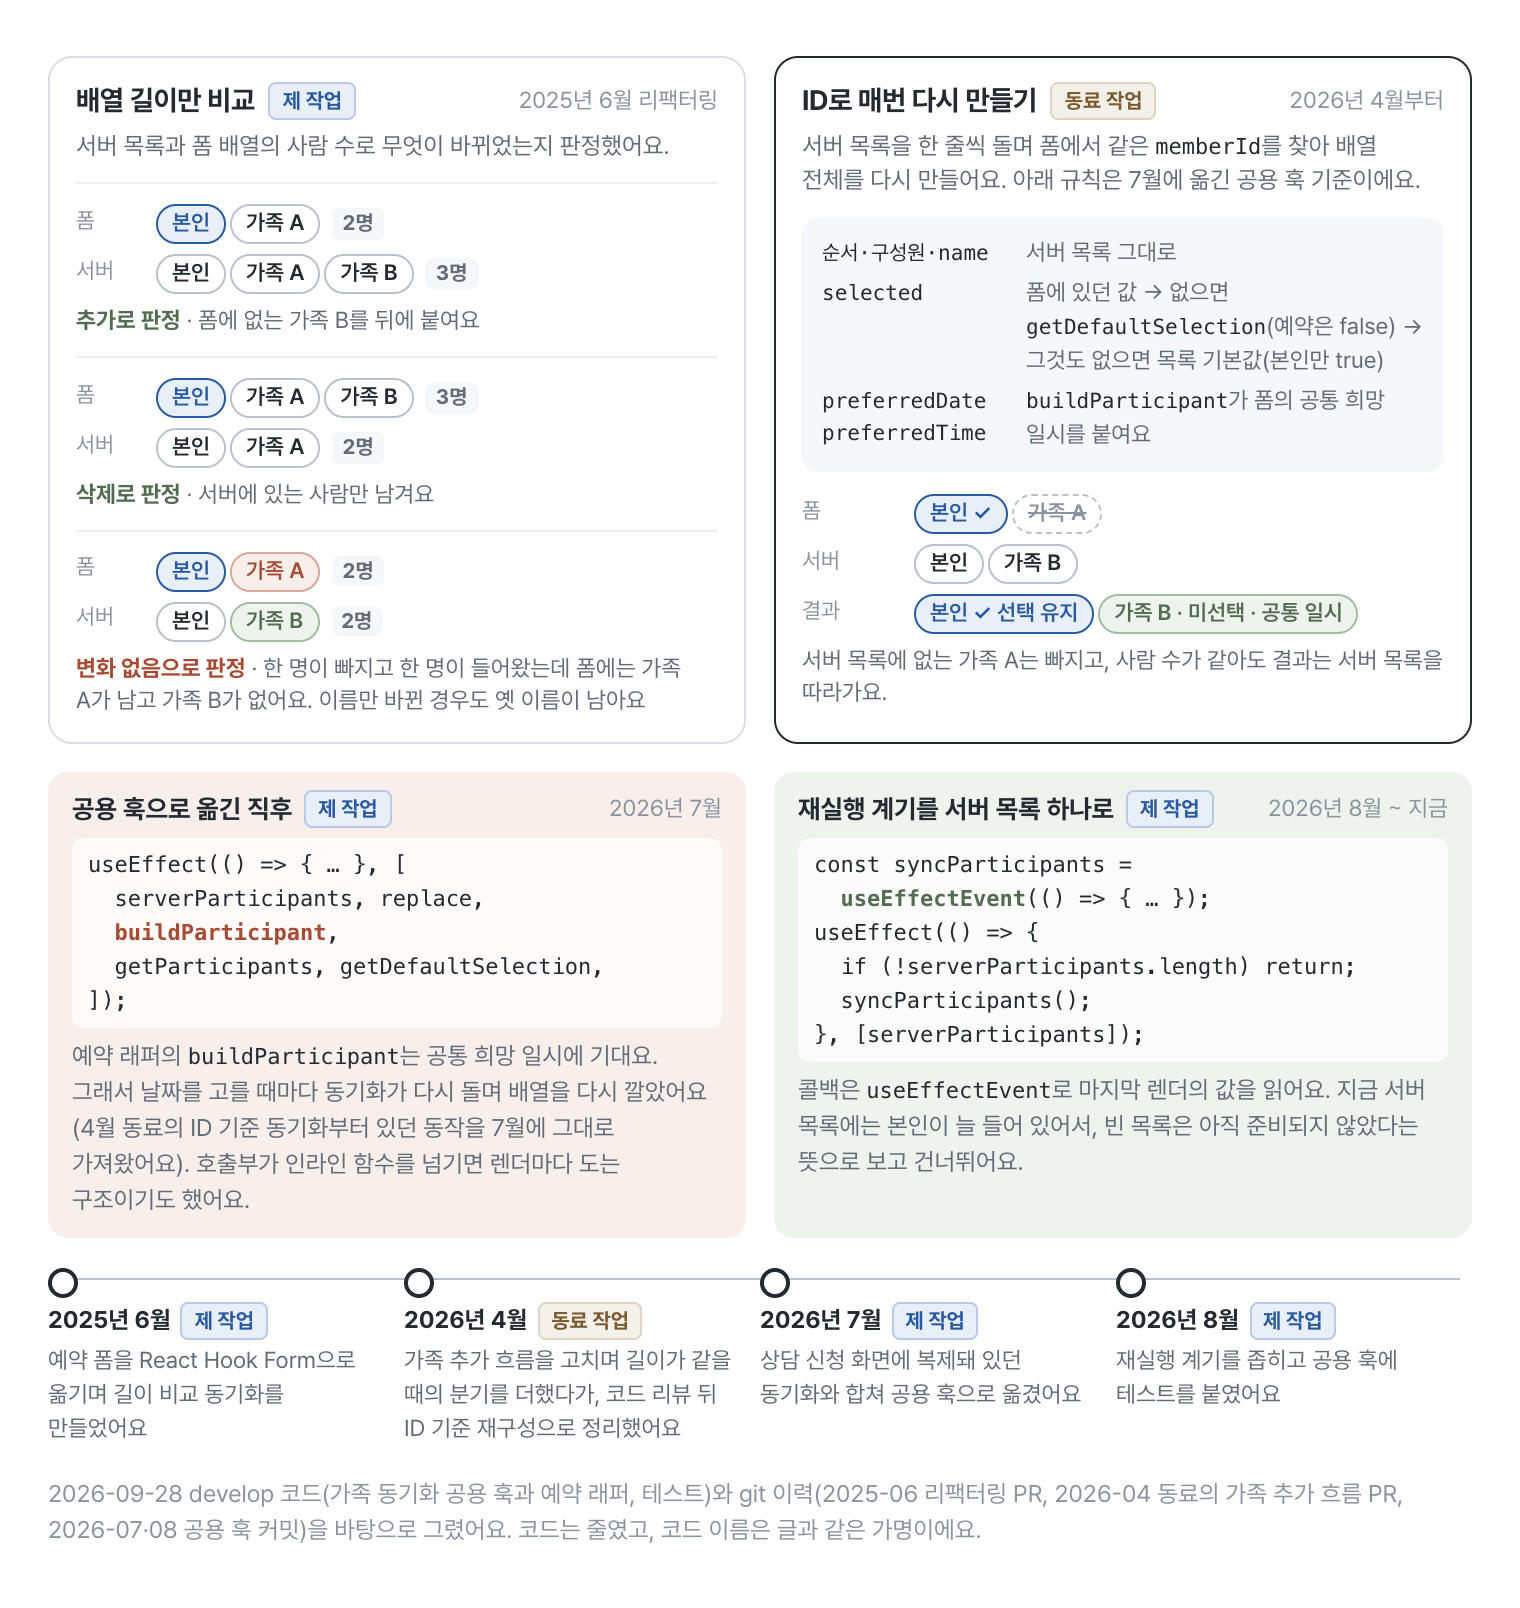
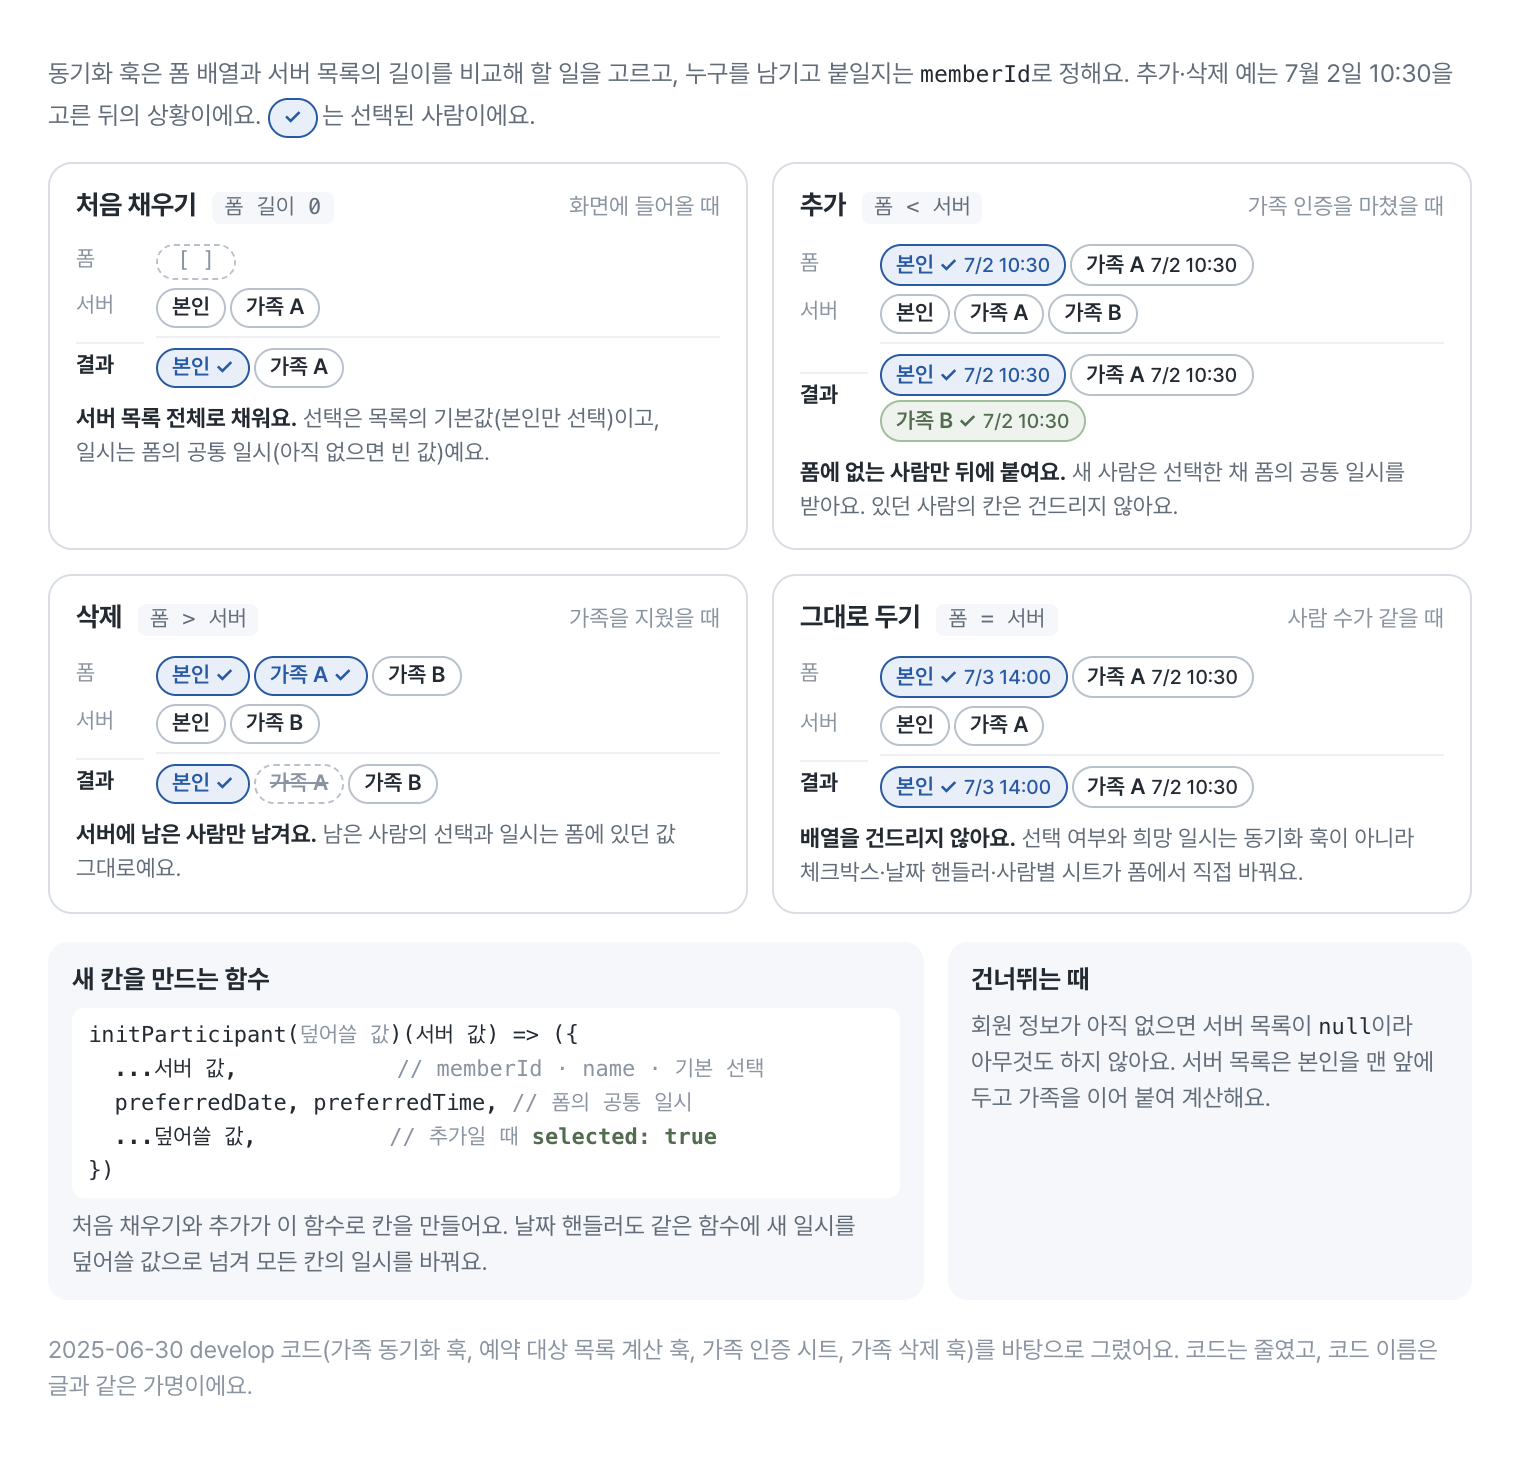
docs(blog): 예약 대상 동기화 그림을 당시 길이 비교 방식으로 다시 그린다
파일 이름 변경(04-sync-by-id → 04-sync-by-length)은 앞 커밋 b96adb2 에 함께 들어갔다.

diff --git a/blog/assets/figures/reservation-form/src/04-sync-by-length.html b/blog/assets/figures/reservation-form/src/04-sync-by-length.html
@@ -2,140 +2,100 @@
 <html lang="ko"><head><meta charset="utf-8"><link rel="stylesheet" href="figure.css">
 <style>
   body { word-break: keep-all; }
-  .cols { display: grid; grid-template-columns: 1fr 1fr; gap: 14px; }
-  .panel { border: 1px solid var(--line); border-radius: 12px; padding: 11px 13px 12px; background: #fff; }
-  .panel.now { border: 1.5px solid var(--ink); }
-  .ph { display: flex; align-items: center; gap: 7px; flex-wrap: wrap; }
-  .ph b { font-size: 14px; letter-spacing: -0.2px; }
-  .who { display: inline-block; font-size: 10.5px; font-weight: 700; padding: 0 6px; border-radius: 4px; line-height: 17px; white-space: nowrap; }
-  .who.me { color: var(--blue); background: var(--blue-soft); border: 1px solid var(--blue-line); }
-  .who.peer { color: #7a5a2e; background: #f4f0ea; border: 1px solid #e0d3bf; }
-  .ph .when { margin-left: auto; font-size: 11.5px; color: var(--faint); }
-  .lead { font-size: 12px; color: var(--sub); margin-top: 4px; line-height: 1.45; }
-  .lead code { font-size: 11px; color: var(--ink); }
+  .lead { font-size: 12.5px; color: var(--sub); margin-bottom: 12px; line-height: 1.5; }
+  .lead code { font-size: 11.5px; color: var(--ink); }
+
+  .cases { display: grid; grid-template-columns: 1fr 1fr; gap: 12px; }
+  .panel { border: 1px solid var(--line); border-radius: 12px; padding: 10px 13px 12px; background: #fff; }
+  .ph { display: flex; align-items: baseline; gap: 8px; flex-wrap: wrap; }
+  .ph b { font-size: 13.5px; letter-spacing: -0.2px; }
+  .ph .cond { font-family: 'JetBrains Mono', 'SF Mono', Menlo, monospace; font-size: 11px; color: var(--sub); background: var(--soft); border-radius: 4px; padding: 0 6px; white-space: nowrap; }
+  .ph .when { margin-left: auto; font-size: 11.5px; color: var(--faint); white-space: nowrap; }
 
   /* 사람 칩 */
   .p { display: inline-block; font-size: 11px; font-weight: 600; padding: 1px 7px; border-radius: 999px; border: 1px solid var(--line-strong); background: #fff; color: var(--ink); margin: 2px 2px 0 0; white-space: nowrap; line-height: 16px; }
   .p.sel { border-color: var(--blue); color: var(--blue); background: var(--blue-soft); }
   .p.new { border-color: #9fbf9c; color: var(--sage); background: var(--sage-soft); }
-  .p.stale { border-color: #d9a898; color: var(--coral); background: var(--coral-soft); }
   .p.gone { color: var(--faint); border-style: dashed; text-decoration: line-through; }
+  .p small { font-weight: 500; font-size: 10px; margin-left: 3px; }
+  .empty { display: inline-block; font-family: 'JetBrains Mono', 'SF Mono', Menlo, monospace; font-size: 11px; color: var(--faint); border: 1px dashed var(--line-strong); border-radius: 999px; padding: 0 9px; line-height: 16px; margin-top: 2px; }
 
-  .case { display: grid; grid-template-columns: 34px 1fr; gap: 3px 6px; align-items: center; margin-top: 9px; padding-top: 8px; border-top: 1px solid #eef0f3; font-size: 11.5px; }
-  .case .k { font-size: 11px; color: var(--faint); }
-  .case .verdict { grid-column: 1 / -1; font-size: 11.5px; line-height: 1.45; margin-top: 2px; }
-  .ok { color: var(--sage); font-weight: 700; }
-  .bad { color: var(--coral); font-weight: 700; }
-  .case .verdict span.d { color: var(--sub); }
-  .len { display: inline-block; font-size: 10.5px; font-weight: 700; color: var(--sub); background: var(--soft); border-radius: 4px; padding: 0 5px; margin-left: 4px; }
+  .rows { display: grid; grid-template-columns: 34px 1fr; gap: 2px 6px; align-items: center; margin-top: 8px; font-size: 11.5px; }
+  .rows .k { font-size: 11px; color: var(--faint); }
+  .rows .k.r { color: var(--ink); font-weight: 700; }
+  .rows .res { border-top: 1px solid #eef0f3; padding-top: 3px; margin-top: 2px; }
+  .verdict { font-size: 11.5px; line-height: 1.45; margin-top: 7px; color: var(--sub); }
+  .verdict b { color: var(--ink); }
 
-  .rules { margin-top: 9px; border-radius: 8px; background: var(--soft); padding: 7px 10px 8px; }
-  .rule { display: grid; grid-template-columns: 96px 1fr; gap: 6px; font-size: 11.5px; line-height: 1.45; padding: 2px 0; }
-  .rule .f { font-family: 'JetBrains Mono', 'SF Mono', Menlo, monospace; font-size: 10.5px; color: var(--ink); padding-top: 1px; }
-  .rule .s { color: var(--sub); }
-  .rule .s code { font-size: 10.5px; color: var(--ink); }
-  .ex { margin-top: 9px; }
-  .ex .row { display: grid; grid-template-columns: 50px 1fr; gap: 6px; align-items: center; font-size: 11.5px; margin-top: 3px; }
-  .ex .row .k { font-size: 11px; color: var(--faint); }
-  .ex .note { font-size: 11.5px; color: var(--sub); margin-top: 5px; line-height: 1.45; }
-
-  /* 재실행 계기 */
-  .trig { margin-top: 14px; display: grid; grid-template-columns: 1fr 1fr; gap: 14px; }
-  .tb { border-radius: 10px; padding: 9px 12px 10px; font-size: 12px; color: var(--sub); line-height: 1.5; }
-  .tb.old { background: var(--coral-soft); }
-  .tb.new { background: var(--sage-soft); }
-  .tb .h { display: flex; align-items: center; gap: 6px; flex-wrap: wrap; margin-bottom: 4px; }
-  .tb .h b { font-size: 13px; color: var(--ink); }
-  .tb .h .when { margin-left: auto; font-size: 11.5px; color: var(--faint); }
-  .tb pre { font-family: 'JetBrains Mono', 'SF Mono', Menlo, monospace; font-size: 11px; line-height: 1.55; background: rgba(255,255,255,0.7); border-radius: 6px; padding: 5px 8px; color: var(--ink); margin: 3px 0 5px; white-space: pre-wrap; }
+  .bottom { margin-top: 14px; display: grid; grid-template-columns: 1.25fr 0.75fr; gap: 12px; }
+  .tb { border-radius: 10px; padding: 9px 12px 10px; font-size: 12px; color: var(--sub); line-height: 1.5; background: var(--soft); }
+  .tb .h { font-size: 13px; color: var(--ink); font-weight: 700; margin-bottom: 4px; }
+  .tb pre { font-family: 'JetBrains Mono', 'SF Mono', Menlo, monospace; font-size: 11px; line-height: 1.55; background: #fff; border-radius: 6px; padding: 5px 8px; color: var(--ink); margin: 3px 0 5px; white-space: pre-wrap; }
   .tb pre .c { color: var(--faint); }
-  .tb pre .hl { color: var(--coral); font-weight: 700; }
-  .tb pre .ok { color: var(--sage); }
+  .tb pre .hl { color: var(--sage); font-weight: 700; }
   .tb code { font-size: 11px; color: var(--ink); }
-
-  /* 이력 */
-  .tl { margin-top: 14px; display: grid; grid-template-columns: repeat(4, minmax(0, 1fr)); gap: 0; position: relative; }
-  .tl::before { content: ''; position: absolute; left: 6px; right: 6px; top: 6px; border-top: 1.5px solid var(--line-strong); }
-  .ev { position: relative; padding: 18px 10px 0 0; font-size: 11.5px; color: var(--sub); line-height: 1.45; }
-  .ev::before { content: ''; position: absolute; left: 0; top: 1px; width: 11px; height: 11px; border-radius: 50%; background: #fff; border: 2px solid var(--ink); }
-  .ev .d { display: flex; align-items: center; gap: 5px; font-size: 12px; font-weight: 700; color: var(--ink); margin-bottom: 2px; }
-  .ev code { font-size: 10.5px; color: var(--ink); }
 </style></head>
 <body>
 
-<div class="cols">
-  <!-- 왼쪽: 길이 비교 -->
+<p class="lead">동기화 훅은 폼 배열과 서버 목록의 길이를 비교해 할 일을 고르고, 누구를 남기고 붙일지는 <code>memberId</code>로 정해요. 추가·삭제 예는 7월 2일 10:30을 고른 뒤의 상황이에요. <span class="p sel">✓</span>는 선택된 사람이에요.</p>
+
+<div class="cases">
   <div class="panel">
-    <div class="ph"><b>배열 길이만 비교</b><span class="who me">제 작업</span><span class="when">2025년 6월 리팩터링</span></div>
-    <p class="lead">서버 목록과 폼 배열의 사람 수로 무엇이 바뀌었는지 판정했어요.</p>
-
-    <div class="case">
-      <span class="k">폼</span><div><span class="p sel">본인</span><span class="p">가족 A</span><span class="len">2명</span></div>
-      <span class="k">서버</span><div><span class="p">본인</span><span class="p">가족 A</span><span class="p">가족 B</span><span class="len">3명</span></div>
-      <div class="verdict"><span class="ok">추가로 판정</span> <span class="d">· 폼에 없는 가족 B를 뒤에 붙여요</span></div>
+    <div class="ph"><b>처음 채우기</b><span class="cond">폼 길이 0</span><span class="when">화면에 들어올 때</span></div>
+    <div class="rows">
+      <span class="k">폼</span><div><span class="empty">[ ]</span></div>
+      <span class="k">서버</span><div><span class="p">본인</span><span class="p">가족 A</span></div>
+      <span class="k r res">결과</span><div class="res"><span class="p sel">본인 ✓</span><span class="p">가족 A</span></div>
     </div>
-
-    <div class="case">
-      <span class="k">폼</span><div><span class="p sel">본인</span><span class="p">가족 A</span><span class="p">가족 B</span><span class="len">3명</span></div>
-      <span class="k">서버</span><div><span class="p">본인</span><span class="p">가족 A</span><span class="len">2명</span></div>
-      <div class="verdict"><span class="ok">삭제로 판정</span> <span class="d">· 서버에 있는 사람만 남겨요</span></div>
-    </div>
-
-    <div class="case">
-      <span class="k">폼</span><div><span class="p sel">본인</span><span class="p stale">가족 A</span><span class="len">2명</span></div>
-      <span class="k">서버</span><div><span class="p">본인</span><span class="p new">가족 B</span><span class="len">2명</span></div>
-      <div class="verdict"><span class="bad">변화 없음으로 판정</span> <span class="d">· 한 명이 빠지고 한 명이 들어왔는데 폼에는 가족 A가 남고 가족 B가 없어요. 이름만 바뀐 경우도 옛 이름이 남아요</span></div>
-    </div>
+    <p class="verdict"><b>서버 목록 전체로 채워요.</b> 선택은 목록의 기본값(본인만 선택)이고, 일시는 폼의 공통 일시(아직 없으면 빈 값)예요.</p>
   </div>
 
-  <!-- 오른쪽: ID 기준 재구성 -->
-  <div class="panel now">
-    <div class="ph"><b>ID로 매번 다시 만들기</b><span class="who peer">동료 작업</span><span class="when">2026년 4월부터</span></div>
-    <p class="lead">서버 목록을 한 줄씩 돌며 폼에서 같은 <code>memberId</code>를 찾아 배열 전체를 다시 만들어요. 아래 규칙은 7월에 옮긴 공용 훅 기준이에요.</p>
-
-    <div class="rules">
-      <div class="rule"><span class="f">순서·구성원·name</span><span class="s">서버 목록 그대로</span></div>
-      <div class="rule"><span class="f">selected</span><span class="s">폼에 있던 값 → 없으면 <code>getDefaultSelection</code>(예약은 false) → 그것도 없으면 목록 기본값(본인만 true)</span></div>
-      <div class="rule"><span class="f">preferredDate<br>preferredTime</span><span class="s"><code>buildParticipant</code>가 폼의 공통 희망 일시를 붙여요</span></div>
+  <div class="panel">
+    <div class="ph"><b>추가</b><span class="cond">폼 &lt; 서버</span><span class="when">가족 인증을 마쳤을 때</span></div>
+    <div class="rows">
+      <span class="k">폼</span><div><span class="p sel">본인 ✓<small>7/2 10:30</small></span><span class="p">가족 A<small>7/2 10:30</small></span></div>
+      <span class="k">서버</span><div><span class="p">본인</span><span class="p">가족 A</span><span class="p">가족 B</span></div>
+      <span class="k r res">결과</span><div class="res"><span class="p sel">본인 ✓<small>7/2 10:30</small></span><span class="p">가족 A<small>7/2 10:30</small></span><span class="p new">가족 B ✓<small>7/2 10:30</small></span></div>
     </div>
+    <p class="verdict"><b>폼에 없는 사람만 뒤에 붙여요.</b> 새 사람은 선택한 채 폼의 공통 일시를 받아요. 있던 사람의 칸은 건드리지 않아요.</p>
+  </div>
 
-    <div class="ex">
-      <div class="row"><span class="k">폼</span><div><span class="p sel">본인 ✓</span><span class="p gone">가족 A</span></div></div>
-      <div class="row"><span class="k">서버</span><div><span class="p">본인</span><span class="p">가족 B</span></div></div>
-      <div class="row"><span class="k">결과</span><div><span class="p sel">본인 ✓ 선택 유지</span><span class="p new">가족 B · 미선택 · 공통 일시</span></div></div>
-      <p class="note">서버 목록에 없는 가족 A는 빠지고, 사람 수가 같아도 결과는 서버 목록을 따라가요.</p>
+  <div class="panel">
+    <div class="ph"><b>삭제</b><span class="cond">폼 &gt; 서버</span><span class="when">가족을 지웠을 때</span></div>
+    <div class="rows">
+      <span class="k">폼</span><div><span class="p sel">본인 ✓</span><span class="p sel">가족 A ✓</span><span class="p">가족 B</span></div>
+      <span class="k">서버</span><div><span class="p">본인</span><span class="p">가족 B</span></div>
+      <span class="k r res">결과</span><div class="res"><span class="p sel">본인 ✓</span><span class="p gone">가족 A</span><span class="p">가족 B</span></div>
     </div>
+    <p class="verdict"><b>서버에 남은 사람만 남겨요.</b> 남은 사람의 선택과 일시는 폼에 있던 값 그대로예요.</p>
+  </div>
+
+  <div class="panel">
+    <div class="ph"><b>그대로 두기</b><span class="cond">폼 = 서버</span><span class="when">사람 수가 같을 때</span></div>
+    <div class="rows">
+      <span class="k">폼</span><div><span class="p sel">본인 ✓<small>7/3 14:00</small></span><span class="p">가족 A<small>7/2 10:30</small></span></div>
+      <span class="k">서버</span><div><span class="p">본인</span><span class="p">가족 A</span></div>
+      <span class="k r res">결과</span><div class="res"><span class="p sel">본인 ✓<small>7/3 14:00</small></span><span class="p">가족 A<small>7/2 10:30</small></span></div>
+    </div>
+    <p class="verdict"><b>배열을 건드리지 않아요.</b> 선택 여부와 희망 일시는 동기화 훅이 아니라 체크박스·날짜 핸들러·사람별 시트가 폼에서 직접 바꿔요.</p>
   </div>
 </div>
 
-<div class="trig">
-  <div class="tb old">
-    <div class="h"><b>공용 훅으로 옮긴 직후</b><span class="who me">제 작업</span><span class="when">2026년 7월</span></div>
-<pre>useEffect(() =&gt; { … }, [
-  serverParticipants, replace,
-  <span class="hl">buildParticipant</span>,
-  getParticipants, getDefaultSelection,
-]);</pre>
-    예약 래퍼의 <code>buildParticipant</code>는 공통 희망 일시에 기대요. 그래서 날짜를 고를 때마다 동기화가 다시 돌며 배열을 다시 깔았어요(4월 동료의 ID 기준 동기화부터 있던 동작을 7월에 그대로 가져왔어요). 호출부가 인라인 함수를 넘기면 렌더마다 도는 구조이기도 했어요.
+<div class="bottom">
+  <div class="tb">
+    <div class="h">새 칸을 만드는 함수</div>
+<pre>initParticipant(<span class="c">덮어쓸 값</span>)(서버 값) =&gt; ({
+  ...서버 값,            <span class="c">// memberId · name · 기본 선택</span>
+  preferredDate, preferredTime, <span class="c">// 폼의 공통 일시</span>
+  ...덮어쓸 값,          <span class="c">// 추가일 때 <span class="hl">selected: true</span></span>
+})</pre>
+    처음 채우기와 추가가 이 함수로 칸을 만들어요. 날짜 핸들러도 같은 함수에 새 일시를 덮어쓸 값으로 넘겨 모든 칸의 일시를 바꿔요.
   </div>
-  <div class="tb new">
-    <div class="h"><b>재실행 계기를 서버 목록 하나로</b><span class="who me">제 작업</span><span class="when">2026년 8월 ~ 지금</span></div>
-<pre>const syncParticipants =
-  <span class="ok">useEffectEvent</span>(() =&gt; { … });
-useEffect(() =&gt; {
-  if (!serverParticipants.length) return;
-  syncParticipants();
-}, [serverParticipants]);</pre>
-    콜백은 <code>useEffectEvent</code>로 마지막 렌더의 값을 읽어요. 지금 서버 목록에는 본인이 늘 들어 있어서, 빈 목록은 아직 준비되지 않았다는 뜻으로 보고 건너뛰어요.
+  <div class="tb">
+    <div class="h">건너뛰는 때</div>
+    회원 정보가 아직 없으면 서버 목록이 <code>null</code>이라 아무것도 하지 않아요. 서버 목록은 본인을 맨 앞에 두고 가족을 이어 붙여 계산해요.
   </div>
 </div>
 
-<div class="tl">
-  <div class="ev"><div class="d">2025년 6월 <span class="who me">제 작업</span></div>예약 폼을 React Hook Form으로 옮기며 길이 비교 동기화를 만들었어요</div>
-  <div class="ev"><div class="d">2026년 4월 <span class="who peer">동료 작업</span></div>가족 추가 흐름을 고치며 길이가 같을 때의 분기를 더했다가, 코드 리뷰 뒤 ID 기준 재구성으로 정리했어요</div>
-  <div class="ev"><div class="d">2026년 7월 <span class="who me">제 작업</span></div>상담 신청 화면에 복제돼 있던 동기화와 합쳐 공용 훅으로 옮겼어요</div>
-  <div class="ev"><div class="d">2026년 8월 <span class="who me">제 작업</span></div>재실행 계기를 좁히고 공용 훅에 테스트를 붙였어요</div>
-</div>
-
-<p class="foot">2026-09-28 develop 코드(가족 동기화 공용 훅과 예약 래퍼, 테스트)와 git 이력(2025-06 리팩터링 PR, 2026-04 동료의 가족 추가 흐름 PR, 2026-07·08 공용 훅 커밋)을 바탕으로 그렸어요. 코드는 줄였고, 코드 이름은 글과 같은 가명이에요.</p>
+<p class="foot">2025-06-30 develop 코드(가족 동기화 훅, 예약 대상 목록 계산 훅, 가족 인증 시트, 가족 삭제 훅)를 바탕으로 그렸어요. 코드는 줄였고, 코드 이름은 글과 같은 가명이에요.</p>
 </body></html>
